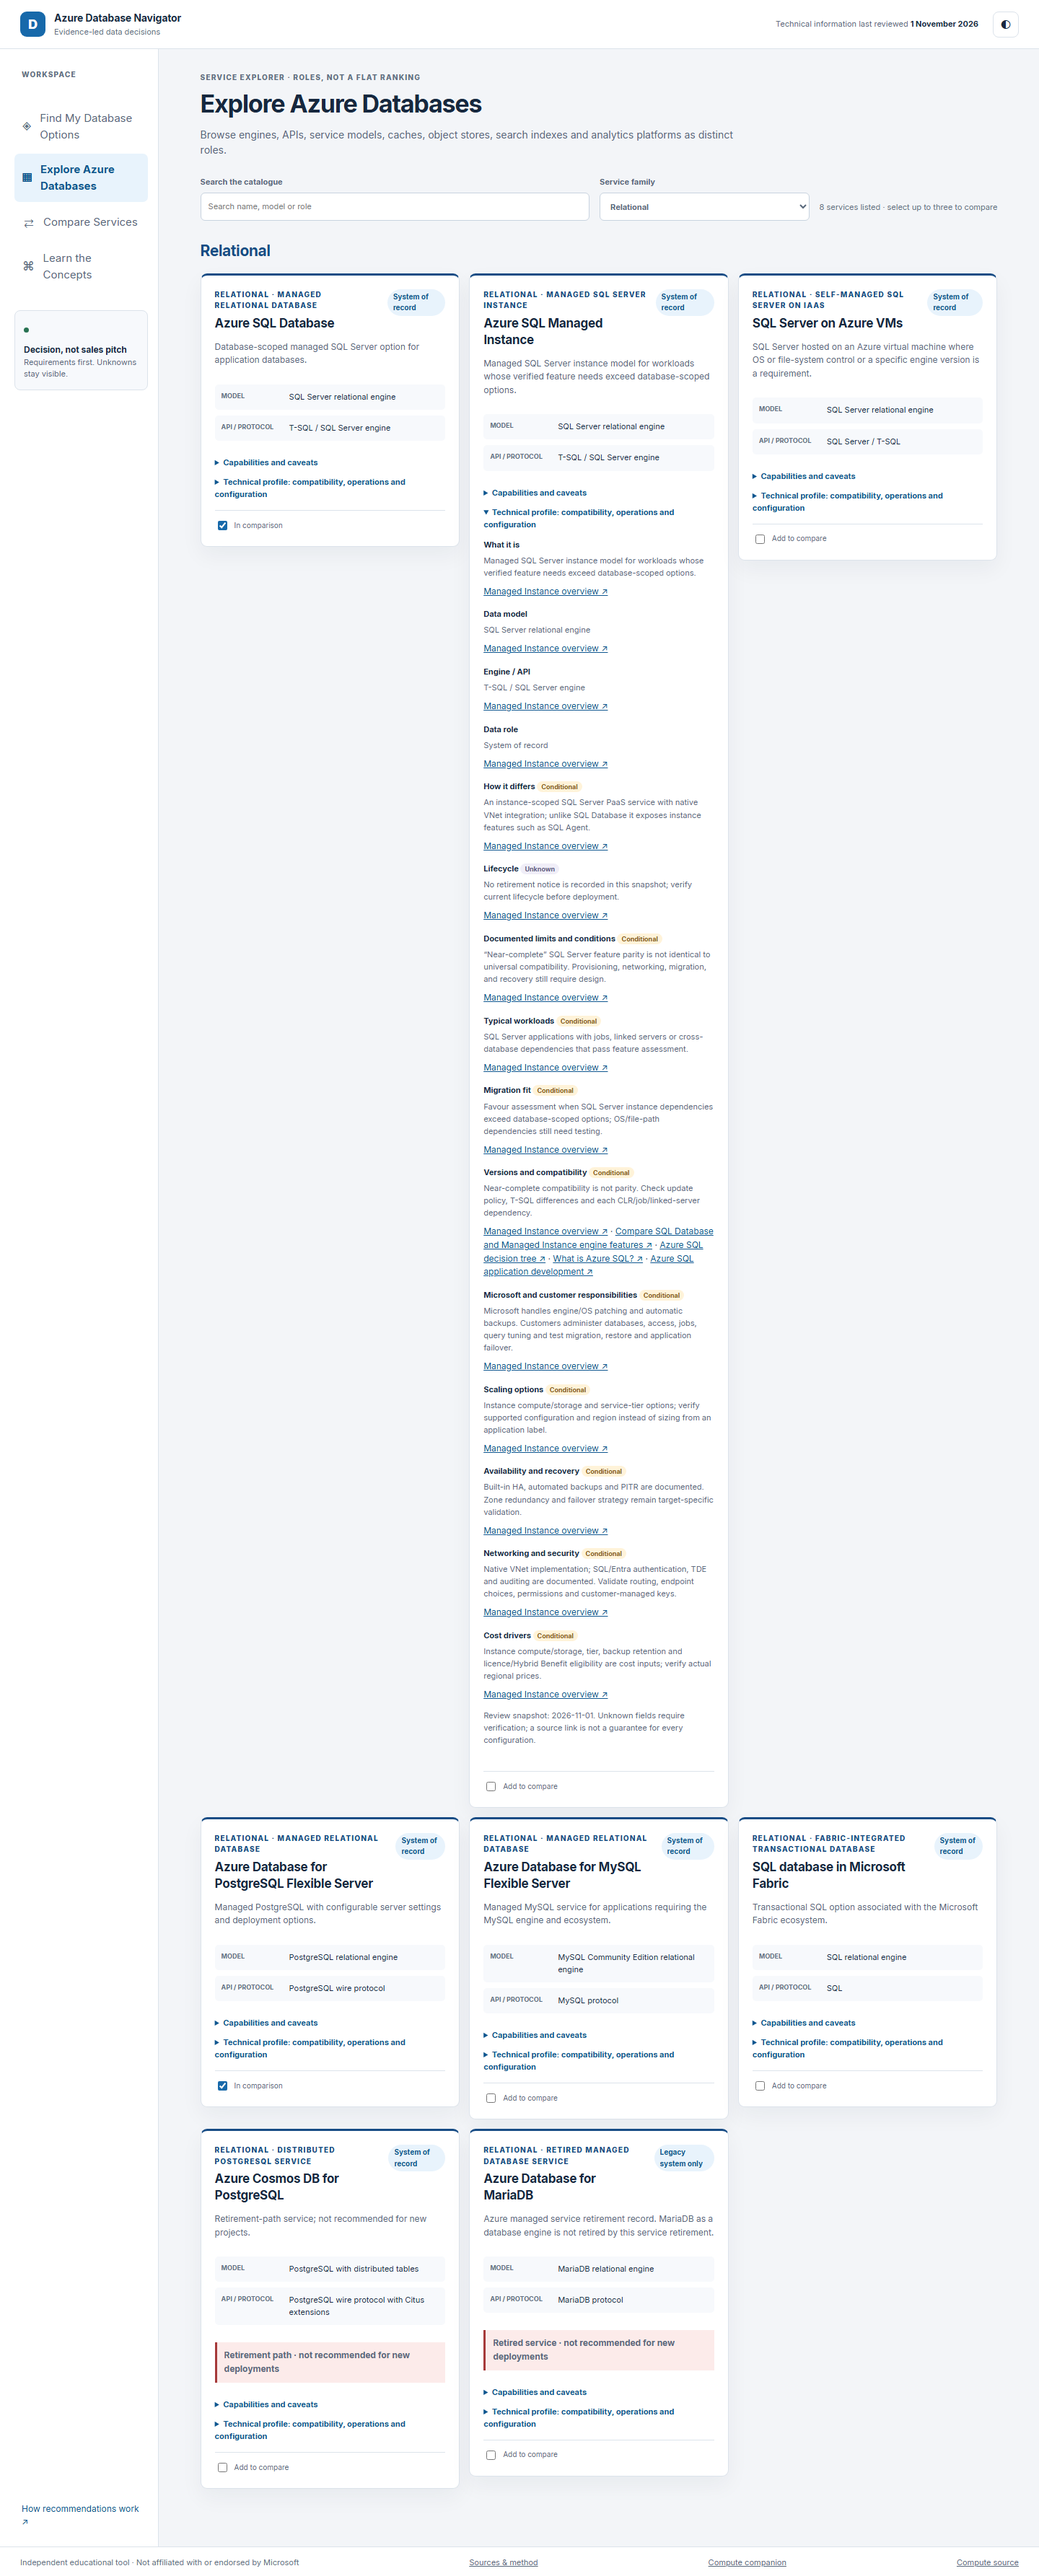
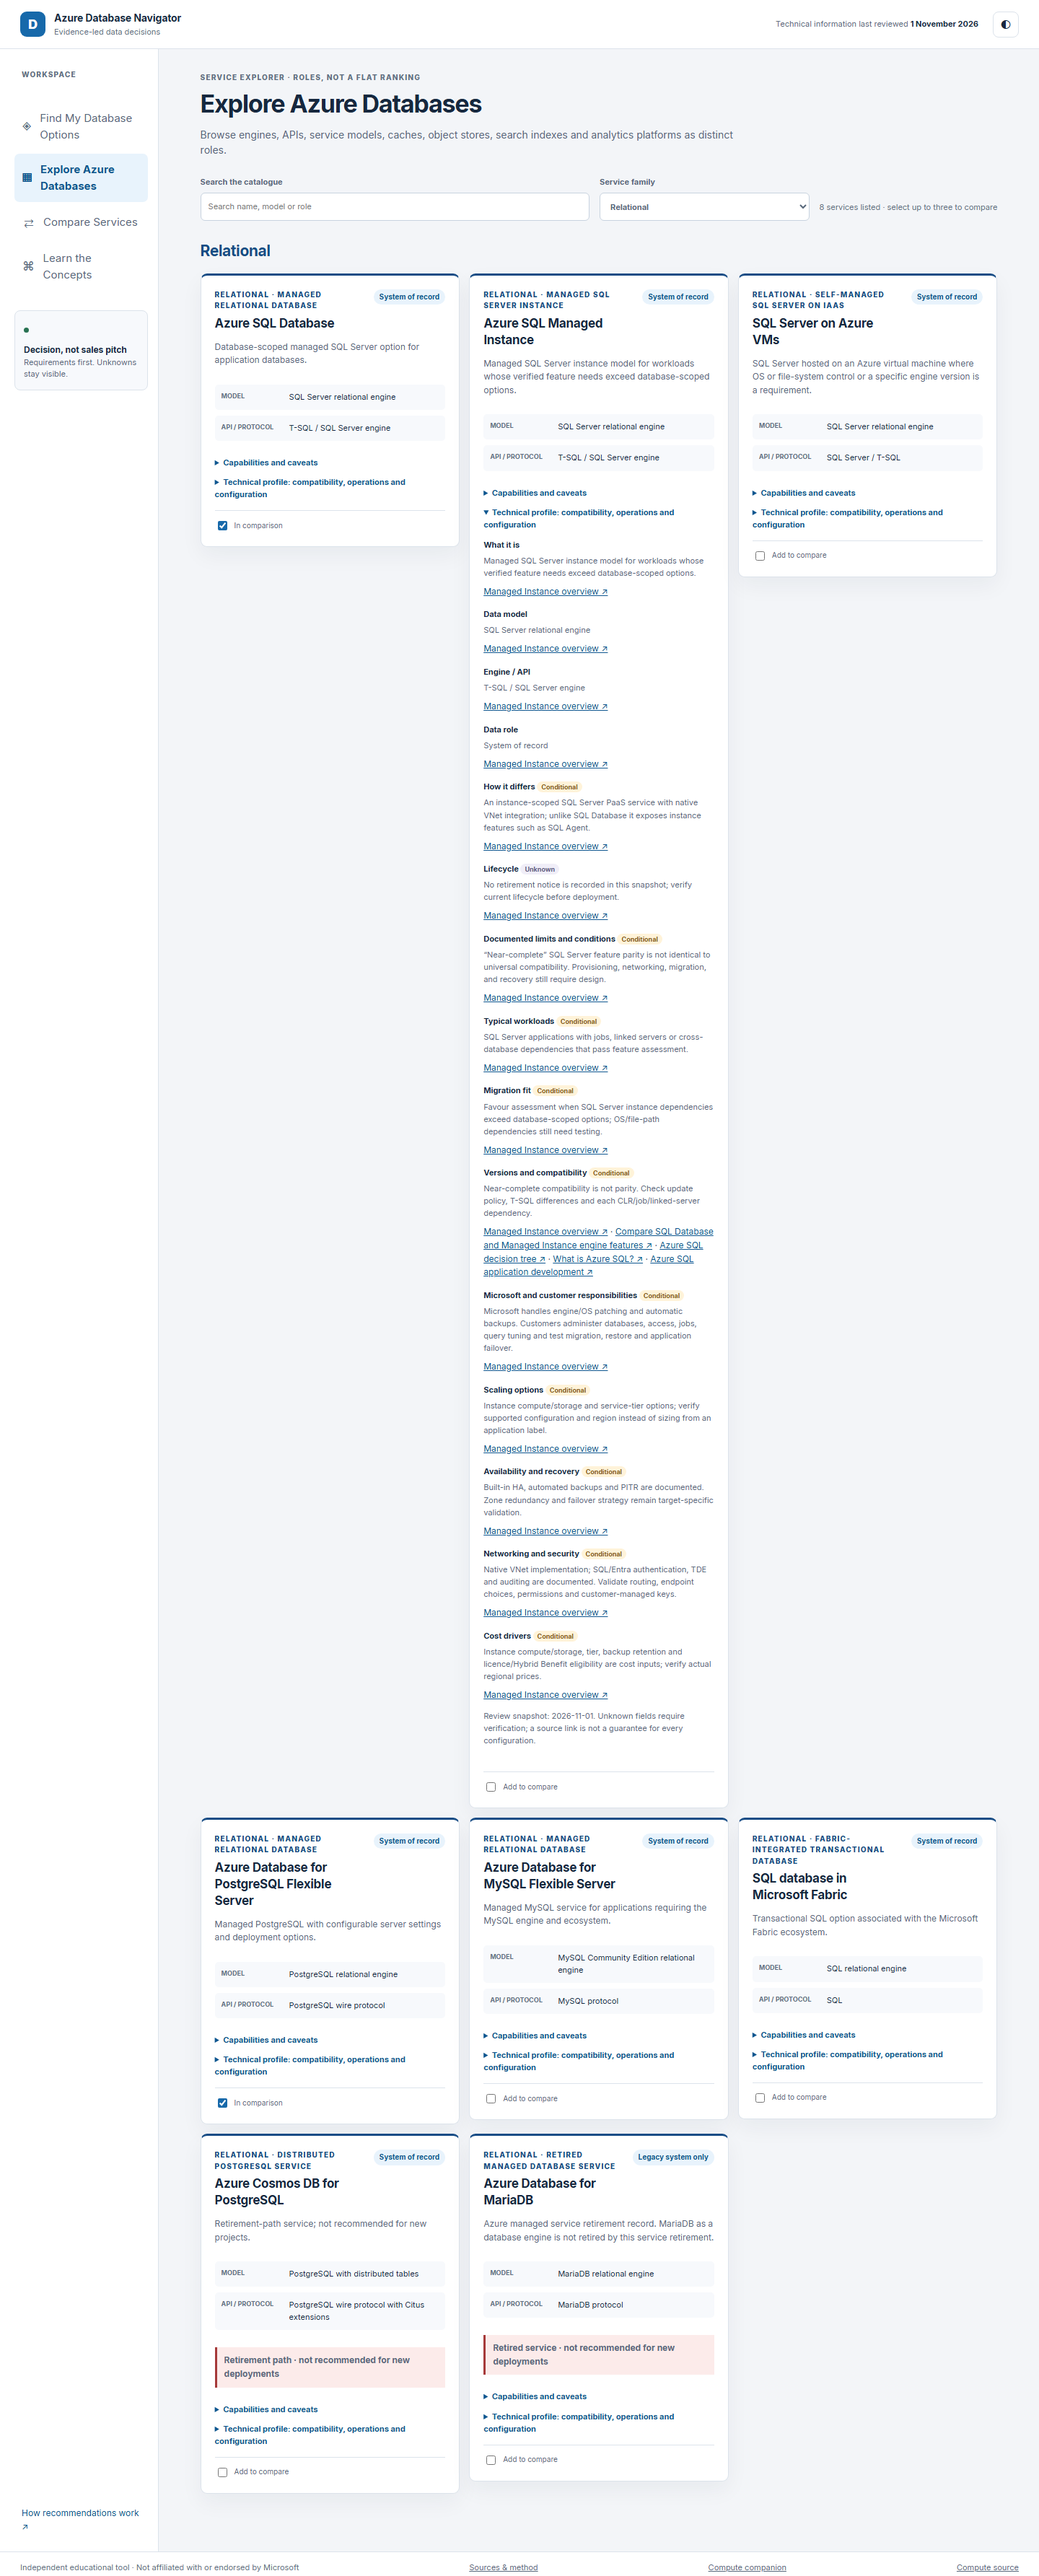
Keep multi-word role tags and fact cells within their cards
Restrict no-wrap to single-word candidate tags, let card headers wrap, let fact grids stack, and assert badge, card and fact-cell containment in every viewport/theme project.

diff --git a/styles.css b/styles.css
@@ -316,11 +316,13 @@ select, .search-field input {
   box-shadow: var(--shadow);
 }
 .result-card-primary { border-top: 3px solid var(--accent); }
-.result-card-top, .service-card-heading { display: flex; align-items: flex-start; justify-content: space-between; gap: 12px; }
+.result-card-top, .service-card-heading { display: flex; flex-wrap: wrap; align-items: flex-start; justify-content: space-between; gap: 6px 12px; }
+.result-card-top > div, .service-card-heading > div { flex: 1 1 10rem; min-width: 0; }
 .result-card-top .eyebrow, .service-card-heading .eyebrow { margin-bottom: 5px; }
 .candidate-tag, .role-badge {
   flex: 0 1 auto;
-  max-width: 45%;
+  max-width: 100%;
+  min-width: 0;
   overflow-wrap: break-word;
   padding: 3px 8px;
   border-radius: 999px;
@@ -329,10 +331,10 @@ select, .search-field input {
   font-size: 10px;
   font-weight: 700;
 }
-.candidate-tag { flex: none; white-space: nowrap; }
+.tag-word { flex: none; white-space: nowrap; }
 .candidate-alt { background: var(--surface-strong); color: var(--ink-muted); }
 .result-reason { margin: 12px 0; color: var(--ink-muted); font-size: 13px; }
-.service-facts { display: grid; grid-template-columns: repeat(3, minmax(0, 1fr)); gap: 8px; margin: 12px 0; }
+.service-facts { display: grid; grid-template-columns: repeat(auto-fit, minmax(min(100%, 8rem), 1fr)); gap: 8px; margin: 12px 0; }
 .service-facts > div { min-width: 0; padding: 9px; border-radius: 5px; background: var(--surface-muted); }
 .service-facts dt { color: var(--ink-soft); font-size: 9px; font-weight: 700; text-transform: uppercase; }
 .service-facts dd { margin: 3px 0 0; color: var(--ink); font-size: 11px; }

diff --git a/src/app.js b/src/app.js
@@ -167,7 +167,7 @@ function renderResults(result) {
     const service = serviceById[item.serviceId];
     const capEntries = Object.entries(service.capabilities);
     return `<article ${familyAttributes(service)} class="result-card ${index === 0 && result.kind !== 'multi-store' ? 'result-card-primary' : ''}">
-      <div class="result-card-top"><div><p class="eyebrow">${escapeHTML(familyFor(service).label)} · ${escapeHTML(service.kind)}</p><h3>${escapeHTML(service.name)}</h3></div>${result.kind === 'multi-store' ? `<span class="candidate-tag">${escapeHTML(service.role)}</span>` : index === 0 ? '<span class="candidate-tag">Candidate</span>' : '<span class="candidate-tag candidate-alt">Alternative</span>'}</div>
+      <div class="result-card-top"><div><p class="eyebrow">${escapeHTML(familyFor(service).label)} · ${escapeHTML(service.kind)}</p><h3>${escapeHTML(service.name)}</h3></div>${result.kind === 'multi-store' ? `<span class="candidate-tag">${escapeHTML(service.role)}</span>` : index === 0 ? '<span class="candidate-tag tag-word">Candidate</span>' : '<span class="candidate-tag tag-word candidate-alt">Alternative</span>'}</div>
       <p class="result-reason">${escapeHTML(item.reason)}</p>
       <dl class="service-facts"><div><dt>Data model</dt><dd>${escapeHTML(service.model)}</dd></div><div><dt>API / protocol</dt><dd>${escapeHTML(service.api)}</dd></div><div><dt>Role</dt><dd>${escapeHTML(service.role)}</dd></div></dl>
       ${item.caveat ? `<p class="caveat"><strong>Validation gate</strong> ${escapeHTML(item.caveat)}</p>` : ''}

diff --git a/tests/browser/navigator.spec.js b/tests/browser/navigator.spec.js
@@ -130,6 +130,11 @@ test('badge, tag, chip and pill words fit across every scenario, explorer family
           if (required > width + 1) failures.push({ className: element.className, word, required, width });
         }
         measure.remove();
+        if (element.scrollWidth > element.clientWidth + 1) failures.push({ className: element.className, text: element.textContent.trim(), scrollWidth: element.scrollWidth, clientWidth: element.clientWidth });
+      }
+      for (const element of document.querySelectorAll('.result-card, .service-card, .service-facts > div')) {
+        if (!element.getClientRects().length) continue;
+        if (element.scrollWidth > element.clientWidth + 1) failures.push({ container: element.className, text: element.textContent.trim().slice(0, 60), scrollWidth: element.scrollWidth, clientWidth: element.clientWidth });
       }
       return failures;
     });

diff --git a/docs/screenshots.md b/docs/screenshots.md
@@ -2,7 +2,7 @@
 
 All eight PNGs in `screenshots/` are genuine Chromium/Playwright captures from the corrected local production application at `/azure-database-navigator/`, captured on **1 November 2026**. They are not deployment evidence, customer screenshots or image-model mock-ups.
 
-The captures were refreshed after correcting badge sizing: candidate tags keep whole words and role badges wrap only between words. The browser matrix also measures the longest word against each badge's content width.
+The captures were refreshed after correcting badge sizing: single-word candidate tags stay whole, multi-word role tags wrap only between words and move below the heading when space is short, and fact cells stack rather than squeeze. The browser matrix measures the longest word against each badge's content width and rejects overflow inside badges, result/explorer cards and fact cells.
 
 | File | Actual state | Viewport / theme |
 |---|---|---|
